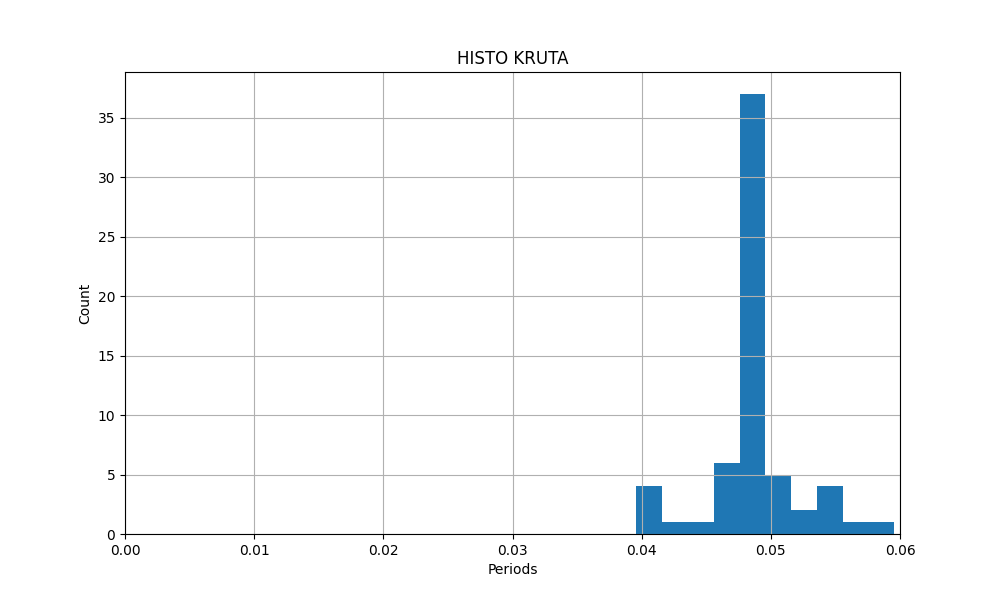
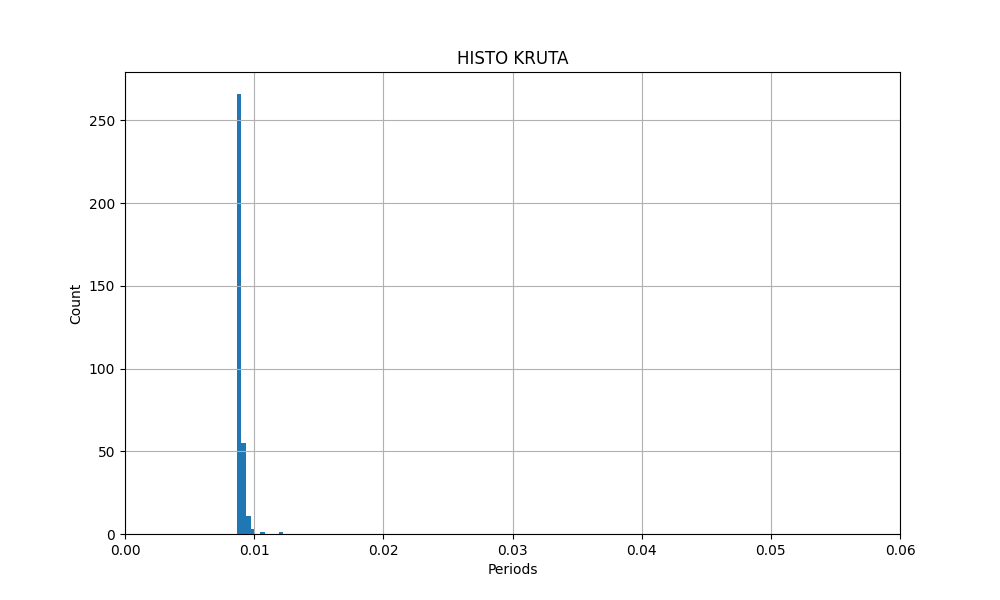
8 bit binsearch

diff --git a/get-adc/r2r_adc.py b/get-adc/r2r_adc.py
@@ -45,11 +45,34 @@ class R2R_ADC:
 
         return levels - 1 
         
-
     def get_sc_voltage(self):
         number  = self.sequential_counting_adc()
         voltage = number / 256 * self.dynamic_range
         return voltage
+
+    def successive_approximation_adc(self):
+        n_bits       = 7
+        digital_code = 0
+
+        for i in range(n_bits, -1, -1):
+            digital_code |= (1 << i)
+
+            self.number_to_dac(digital_code)
+
+            comp = GEGE.input(self.comp_gpio)
+
+            if comp == 1:
+                # DAC >= current
+                digital_code &= ~(1 << i)
+
+            time.sleep(self.compare_time)
+
+        return digital_code
+
+    def get_sar_voltage(self):
+        number  = self.successive_approximation_adc()
+        voltage = number / 256 * self.dynamic_range
+        return voltage 
 
 
 if __name__ == "__main__":
@@ -58,7 +81,7 @@ if __name__ == "__main__":
     
     try:    
         while True:
-            curr_voltage = adc.get_sc_voltage()
+            curr_voltage = adc.get_sar_voltage()
             
             print(f"Current voltage: {curr_voltage}")
 

diff --git a/get-adc/r2r_sar.py b/get-adc/r2r_sar.py
@@ -1,0 +1,37 @@
+import r2r_adc
+import adc_plot
+import time
+
+if __name__ == "__main__":
+    try:
+        max_voltage = 3.296
+
+        adc = r2r_adc.R2R_ADC(max_voltage, compare_time=0.001)
+
+        voltage_values = []
+        time_values    = []
+        duration       = 3.0
+
+        time_start   = time.monotonic()
+        time_current = 0.0 
+
+        while time_current < duration:
+            time_current = time.monotonic() - time_start
+            voltage      = adc.get_sar_voltage()
+
+            voltage_values.append(voltage)
+            time_values.append(time_current)
+
+        adc_plot.plot_voltage_vs_time(time_values, \
+            voltage_values, max_voltage)
+        
+        print(voltage_values)
+        print(time_values)
+
+        adc_plot.plot_sampling_period_hist(time_values)
+    
+    except KeyboardInterrupt:
+        print("\nEnddnNDndnaajn")
+
+    finally:
+        adc.__dtor__()
